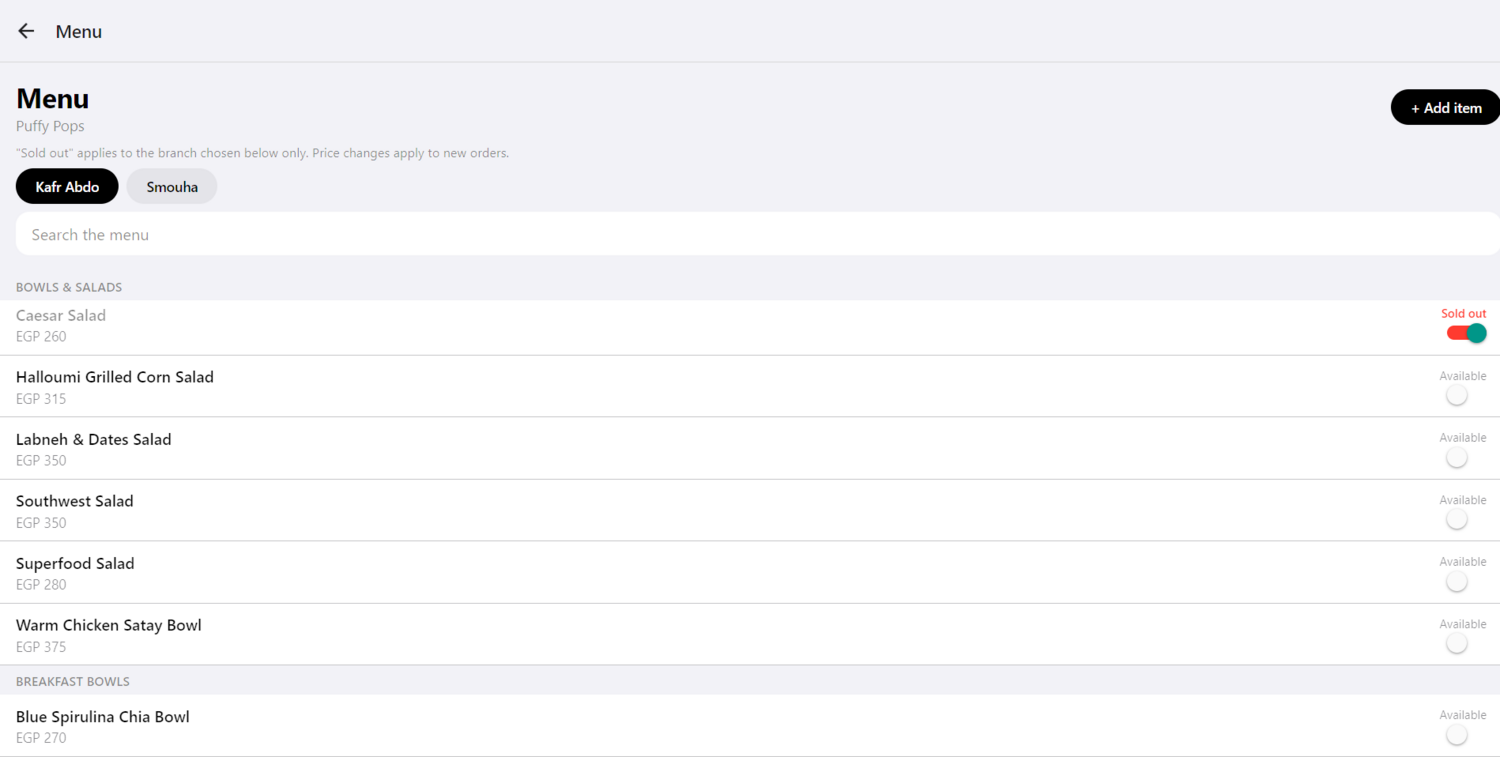
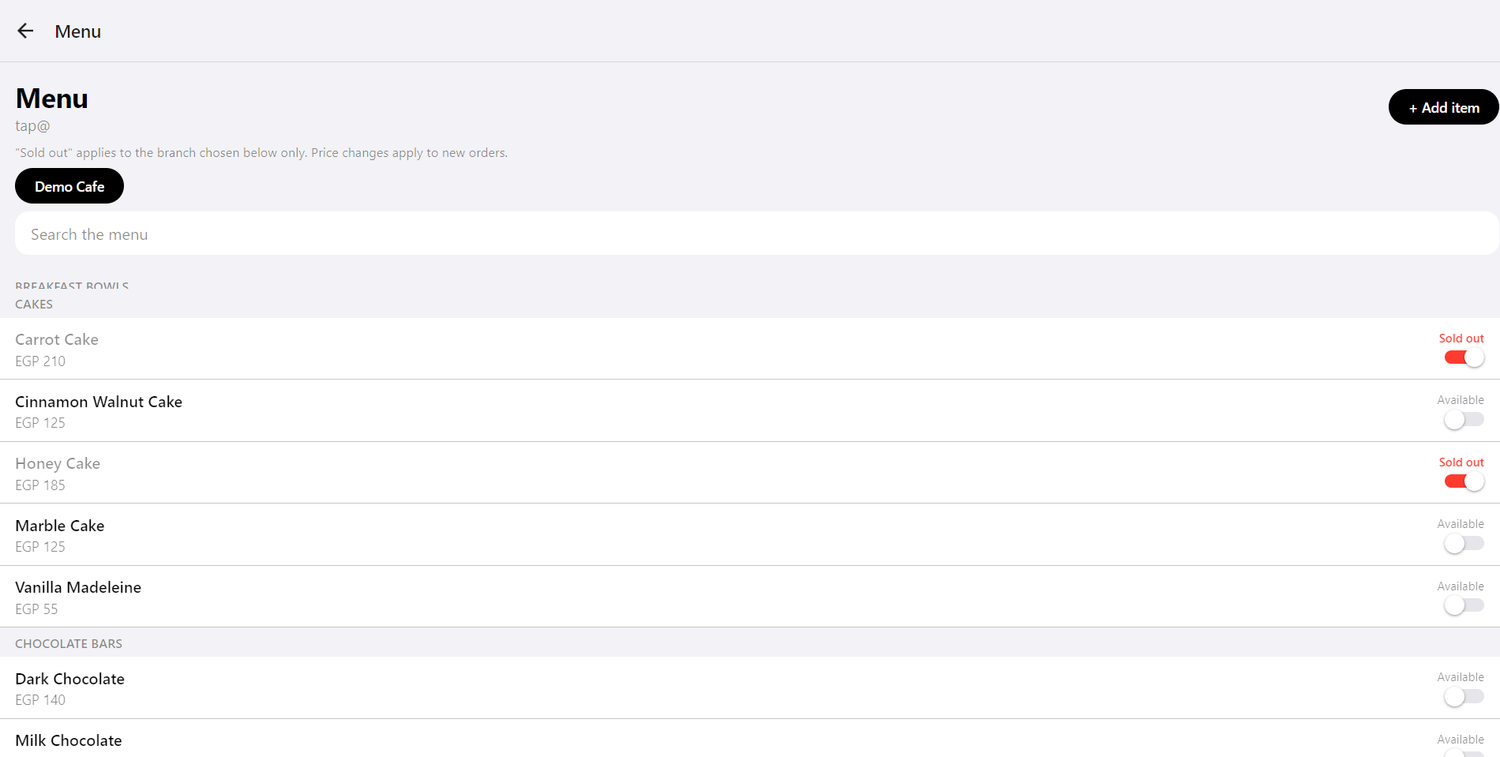
Landing: new menu screenshot with red sold-out switches

diff --git a/index.html b/index.html
@@ -265,7 +265,7 @@ footer svg{height:28px;width:auto;display:block}
       <div class="chips" role="tablist" aria-label="Dashboard screens">
         <button class="chip" role="tab" id="o-dash" aria-controls="o-view" aria-selected="true" data-src="img/admin-dashboard-1.png,img/admin-dashboard-2.png" data-size="1500x747,1500x487" data-alt="Dashboard with revenue, orders, customers, best selling items and recent orders" data-desc="Revenue, orders and customers for any branch and period, your best sellers and recent orders, with live orders one tap away.">dashboard</button>
         <button class="chip" role="tab" id="o-ins" aria-controls="o-view" aria-selected="false" data-src="img/admin-insights-1.png,img/admin-insights-2.png,img/admin-insights-3.png" data-size="1500x709,1500x553,1500x654" data-alt="Insights with busiest hours and days, payment split, branches, revenue by category, top tables and slow sellers" data-desc="Busiest hours and days, cash against card, each branch, revenue by category, top tables and what is not selling.">insights</button>
-        <button class="chip" role="tab" id="o-menu" aria-controls="o-view" aria-selected="false" data-src="img/admin-menu.png" data-size="1500x757" data-alt="Menu screen with one salad switched to sold out at one branch" data-desc="Switch a dish to sold out for one branch, change a price or add an item.">menu</button>
+        <button class="chip" role="tab" id="o-menu" aria-controls="o-view" aria-selected="false" data-src="img/admin-menu.png" data-size="1500x757" data-alt="Menu screen with two cakes switched to sold out at one branch" data-desc="Switch a dish to sold out for one branch, change a price or add an item.">menu</button>
         <button class="chip" role="tab" id="o-fb" aria-controls="o-view" aria-selected="false" data-src="img/admin-feedback.png" data-size="1500x763" data-alt="Feedback screen with an average rating, star breakdown and a low ratings alert" data-desc="Your average rating, the star breakdown, and the low ratings that need a look.">feedback</button>
         <button class="chip" role="tab" id="o-cust" aria-controls="o-view" aria-selected="false" data-src="img/admin-customers.png" data-size="1500x763" data-alt="Customers screen with member counts and gender and age breakdowns" data-desc="How many members you have, and the age and gender of those who chose to share.">customers</button>
       </div>
